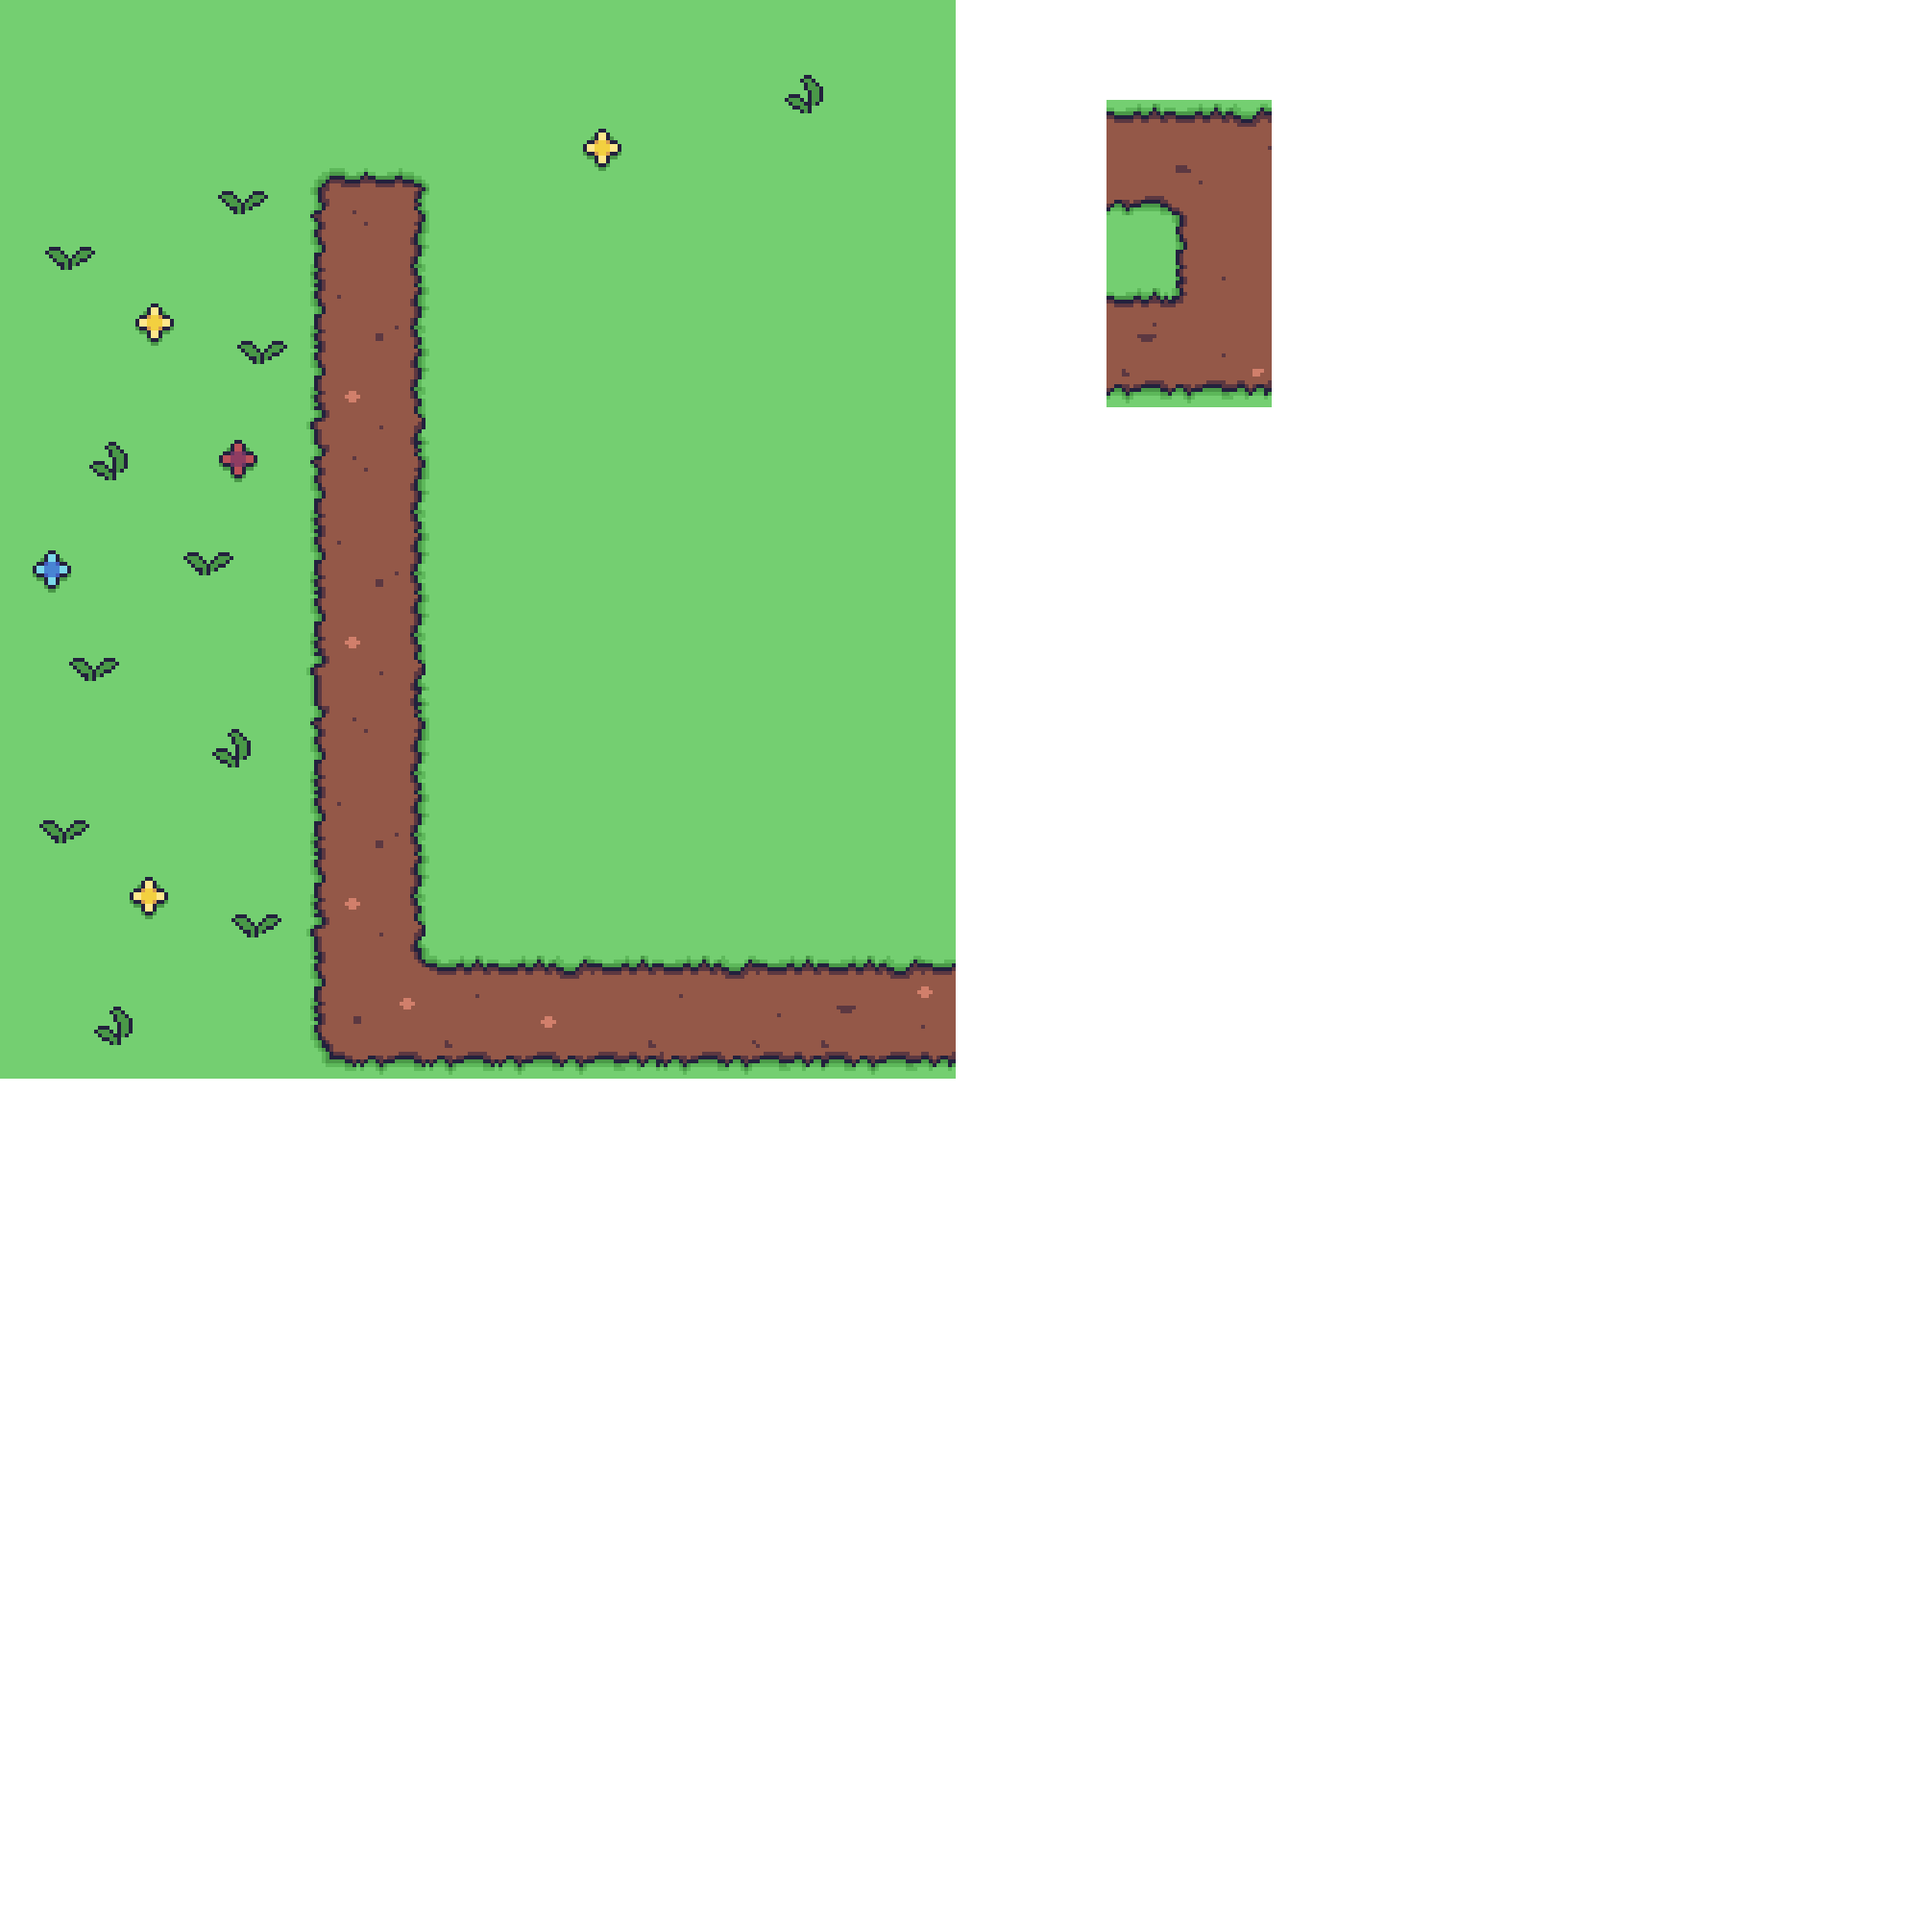
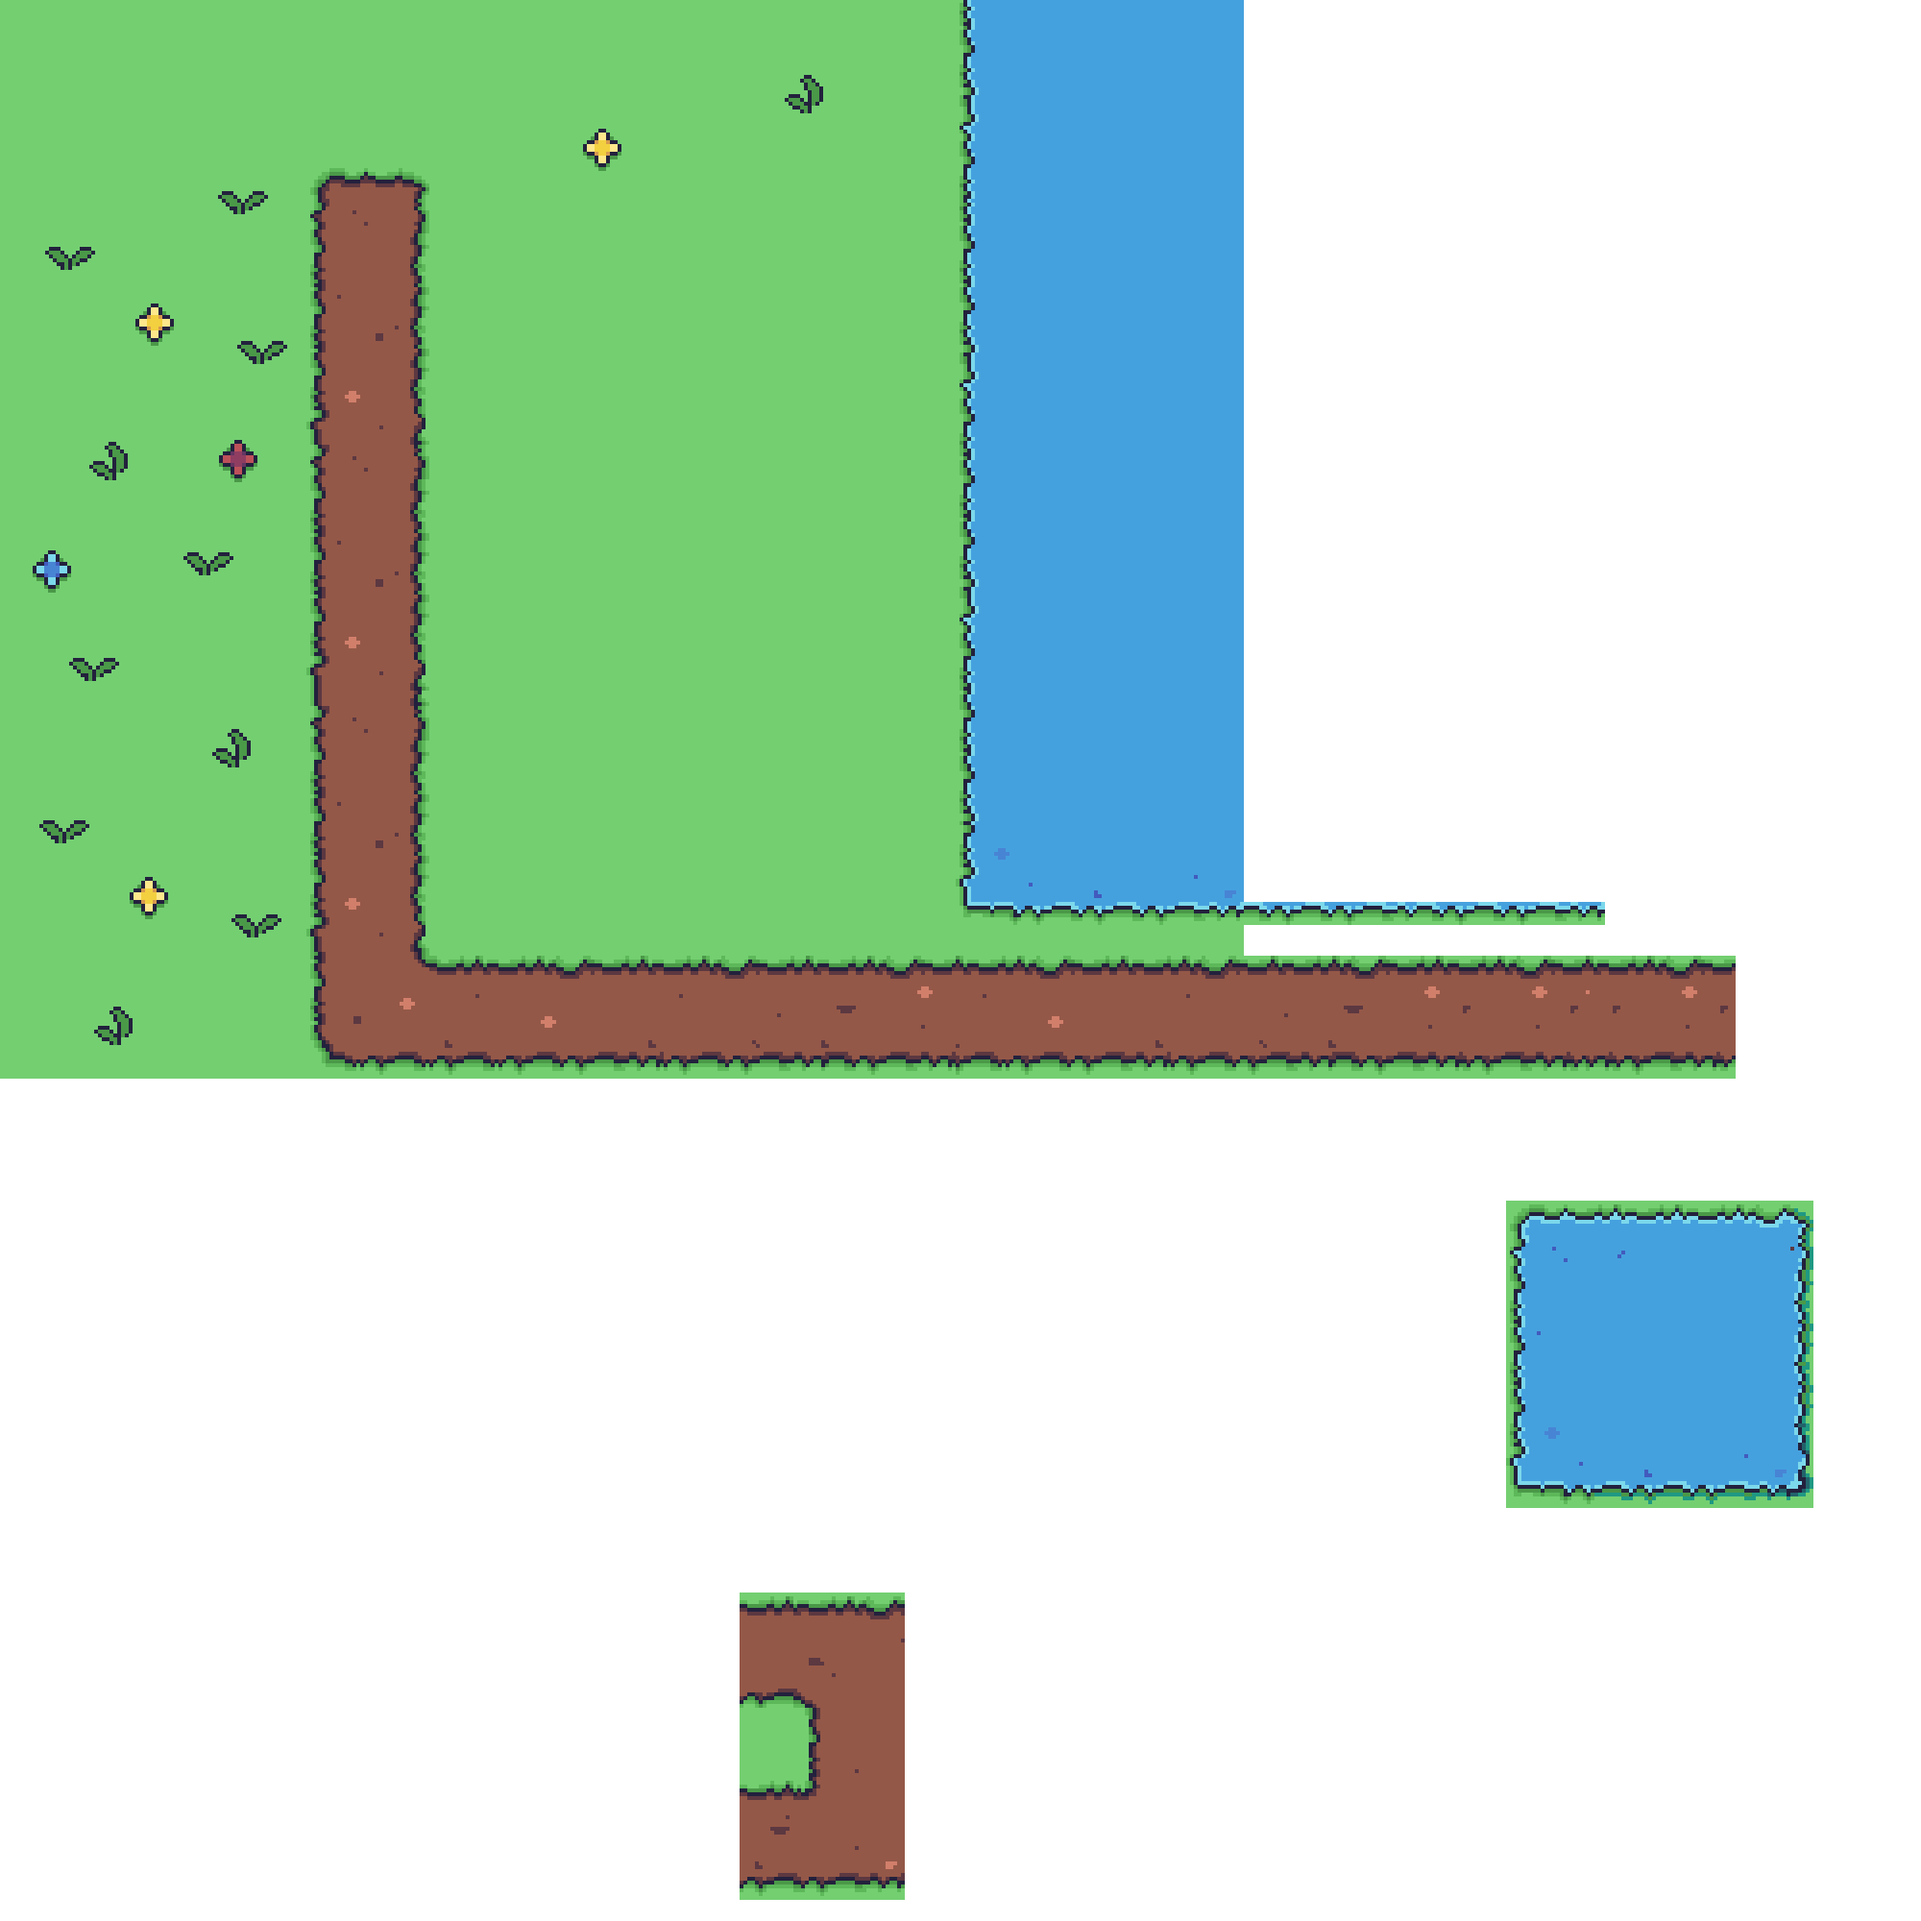
Scene 1

Changed region(s): [[0.496, 0.0, 0.93, 0.589], [0.775, 0.62, 0.961, 0.806], [0.372, 0.806, 0.496, 0.992]]

diff --git a/Zelda.js b/Zelda.js
@@ -28,30 +28,52 @@ var game = new Phaser.Game(config);
 	var tree;
 
 function preload(){
-	this.load.image('background','assets/Village.png');
+	this.load.image('background','assets/Village2.png');
 	this.load.image('house','assets/House.png');
+	this.load.image('house2','assets/House2.png');
 	this.load.image('tree','assets/Arbre.png');
+	this.load.image('npc','assets/npcpapi1.png');
+	this.load.image('wall','assets/Barre.png');
+	this.load.image('wallw','assets/Barrew.png');
 	this.load.spritesheet('perso','assets/Character.png',{frameWidth: 72, frameHeight: 90});
+	
 }
 
 function create(){
-	this.physics.world.setBounds(0, 0, 2000, 2000);
+	this.physics.world.setBounds(0, 0, 2000, 1500);
 	
-	this.add.image(1000,1000,'background');
+	this.add.image(1000,750,'background');
 	
 	house = this.physics.add.staticGroup();
 	house.create(590,300,'house');
 	house.create(590,600,'house');
 	
+	barriere = this.physics.add.staticGroup();
+	barriere.create(-5,590,'wall');
+	barriere.create(1500,260,'wallw');
+	
+	house2 = this.physics.add.staticGroup();
+	house.create(141,1200,'house2');
+	
+	
 	tree = this.physics.add.staticGroup();
 	tree.create(590,820,'tree');
 
+	forest = this.physics.add.staticGroup({
+		key: 'tree',
+		repeat:6,
+		setXY: {x:50,y:-48,stepX:130}
+	});
+	
 	player = this.physics.add.sprite(390,300,'perso');
 	this.physics.add.collider(player,house);
+	this.physics.add.collider(player,house2);
 	this.physics.add.collider(player,tree);
+	this.physics.add.collider(player,forest);
+	this.physics.add.collider(player,barriere);
 	
 	this.cameras.main.startFollow(player);
-	this.cameras.main.setBounds(0, 0, 2000, 2000);
+	this.cameras.main.setBounds(0, 0, 2000, 1500);
 	
 	cursors = this.input.keyboard.createCursorKeys(); 
 	
@@ -89,7 +111,8 @@ function create(){
 		frameRate: 20
 	});
 
-	
+	npc = this.physics.add.staticGroup();
+	npc.create(480,920,'npc');
 
 
 
